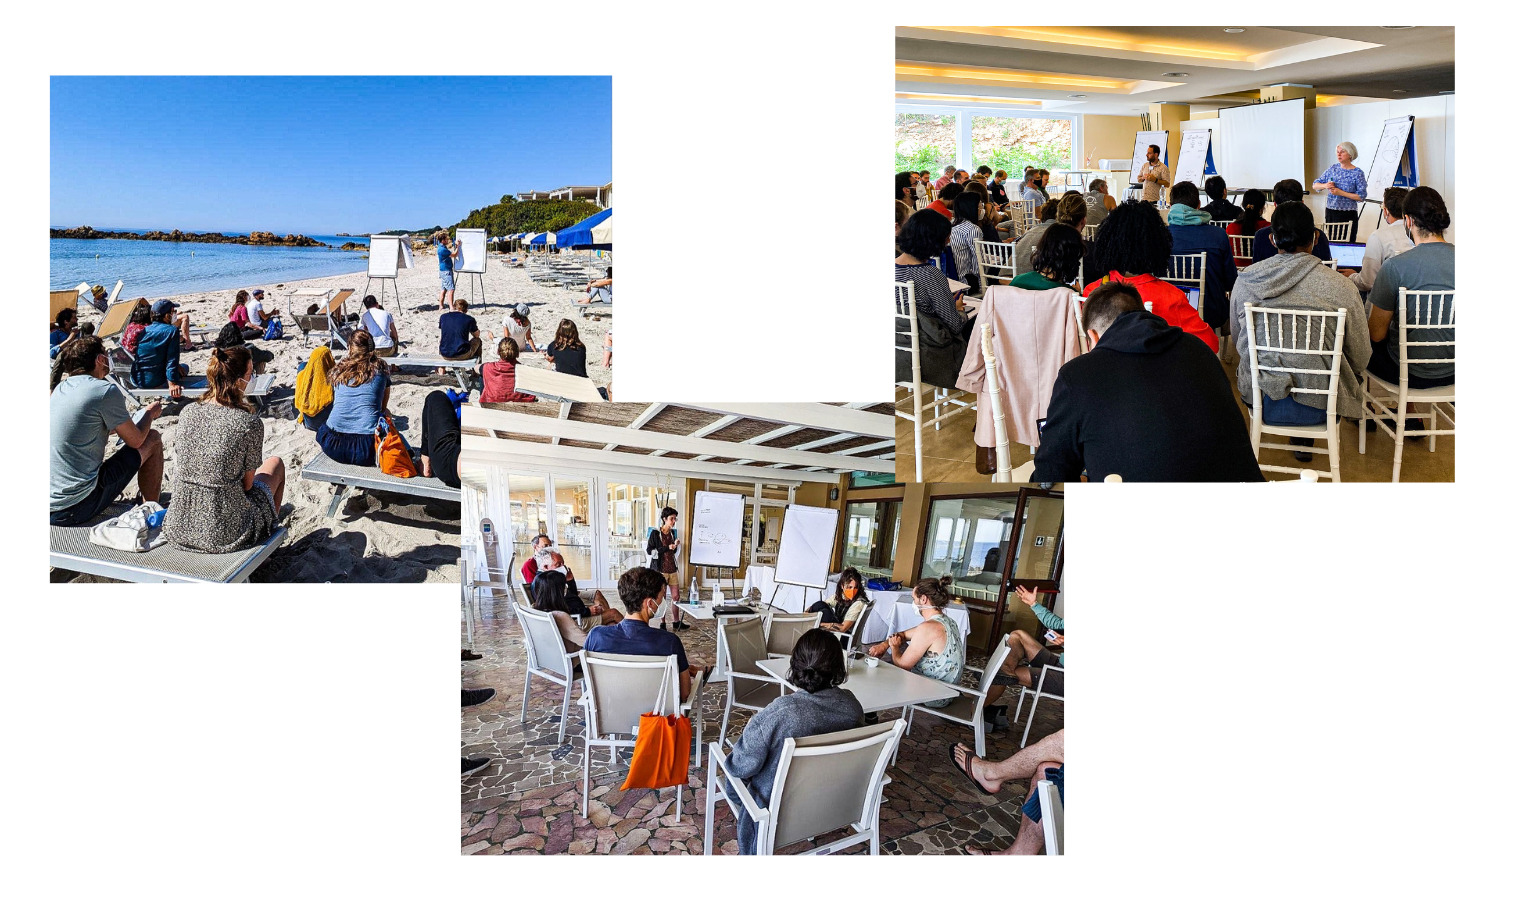
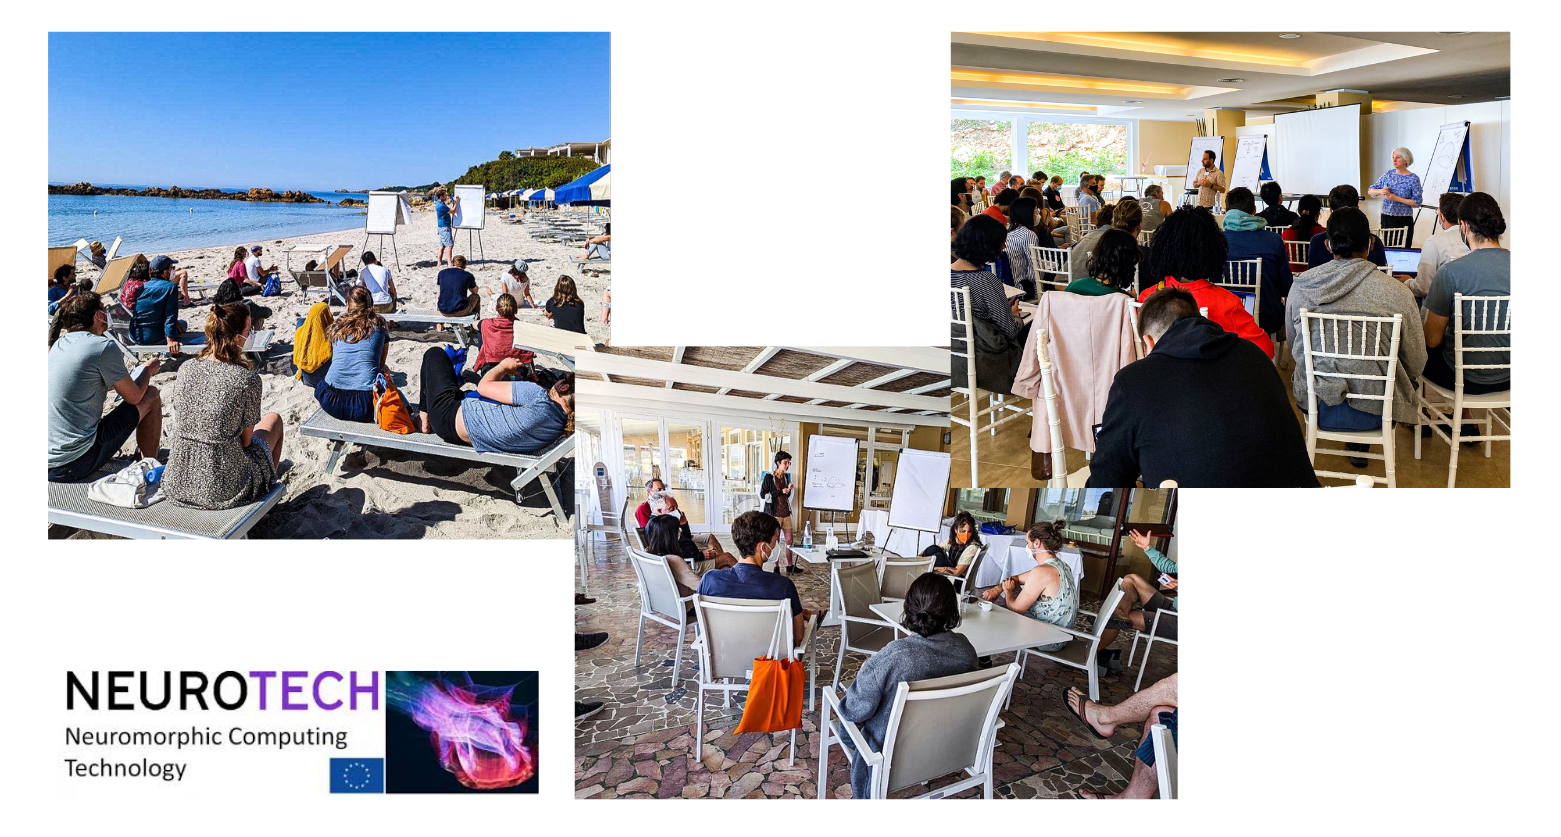
grants and awards done

diff --git a/html/grantsawards.html b/html/grantsawards.html
@@ -164,8 +164,10 @@
 			</a>
 			<p>
 			  <strong>2025 Nature Communications Editors’ Highlights</strong><br />
-			  <em>"Event-Driven Figure-Ground Organisation model for the humanoid robot iCub"</em><br />
-			  Top 50 paper in Applied Physics & Mathematics.
+			  <em>"Event-Driven Figure-Ground Organisation model for the humanoid robot iCub"</em>
+				<a href="https://doi.org/10.1038/s41467-025-56904-9" target="_blank" class="icon solid fa-link" title="Read the publication" style="font-size: 0.8em;"></a>
+				<br />
+				Top 50 paper in Applied Physics & Mathematics, Nature Communications.
 			</p>
 		  </div>
 		</article>
@@ -177,6 +179,7 @@
 			<p>
 			  <strong>2024 Marie Skłodowska-Curie Actions Award</strong><br />
 			  Postdoctoral Fellowship – Project: <em>ENDEAVOR (EveNt DrivEn Active Vision for Object peRception)</em>.
+			  <a href="endeavor.html" target="_blank" class="icon solid fa-link" title="Read the publication" style="font-size: 0.8em;"></a>
 			</p>
 		  </div>
 		</article>
@@ -212,8 +215,11 @@
 		  <div class="image-frame" style="display: flex; flex-wrap: wrap; gap: 1em; align-items: flex-start; width: 100%;">
 
 			<!-- Left side: Image -->
-			<div style="flex: 0 0 48%; max-width:48%;">
-			  <img src="../images/famelab.jpg" alt="FameLab National Finalist" style="width: 100%; height: auto; border-radius: 12px;" />
+			<div style="flex: 0 0 48%; max-width: 48%;">
+			  <div style="display: flex; flex-wrap: wrap; gap: 0.5em; margin-bottom: 1em;">
+				  <img src="../images/famelab.jpg" alt="FameLab National Finalist" style="width: 60%; height: auto; border-radius: 12px;" />
+				  <img src="../images/famelabgenova.jpg" alt="FameLab National Finalist" style="width: 80%; height: auto; border-radius: 12px;" />
+			  </div>
 			</div>
 
 			<!-- Right side: Videos and description -->
@@ -231,9 +237,8 @@
 				</iframe>
 			  </div>
 			</div>
-		   <p>
-			   <strong>2022 FameLab National Finalist</strong><br />
-				3-minute science speech at the FameLab National Final.
+		   <p><strong>2022 FameLab National Finalist</strong><br />
+				3 minute science speech at the FameLab National Final.
 			  </p>
 		  </div>
 
@@ -255,7 +260,7 @@
 			<img src="../images/capocaccia.png" alt="Neurotech EU Fellowship" />
 			<p>
 			  <strong>2022 NEUROTECH EU Fellowship</strong><br />
-			  Neuromorphic Computing Workshop – Capocaccia 2022.
+			  Fellowship to attend the Neuromorphic Computing Workshop Capocaccia 2022.
 			</p>
 		  </div>
 		</article>
@@ -264,12 +269,12 @@
 		<article class="col-6 col-12-mobile special">
 		  <div class="image-frame">
 			<a href="https://doi.org/10.1088/2634-4386/ac6b50" target="_blank">
-			  <img src="../images/hipeac2019.jpg" alt="HiPEAC Collaboration" />
+			  <img src="../images/hipeac.png" alt="HiPEAC Collaboration" />
 			</a>
-			<a href="https://doi.org/10.1088/2634-4386/ac6b50" target="_blank" class="icon solid fa-link" title="Read the publication"></a>
 			<p>
 			  <strong>2019 HiPEAC EU Collaboration Grant</strong><br />
-			  Finalised with publication: <em>“Event-driven bio-inspired attentive system for iCub humanoid robot on SpiNNaker”</em>.
+			  	3 months collaboration grant with Adam Perrett from The University of Manchester, finalised with publication: <em>“Event-driven bio-inspired attentive system for iCub humanoid robot on SpiNNaker”</em>.
+				<a href="https://doi.org/10.1088/2634-4386/ac6b50" target="_blank" class="icon solid fa-link" title="Read the publication" style="font-size: 0.8em;"></a>
 			</p>
 		  </div>
 		</article>
